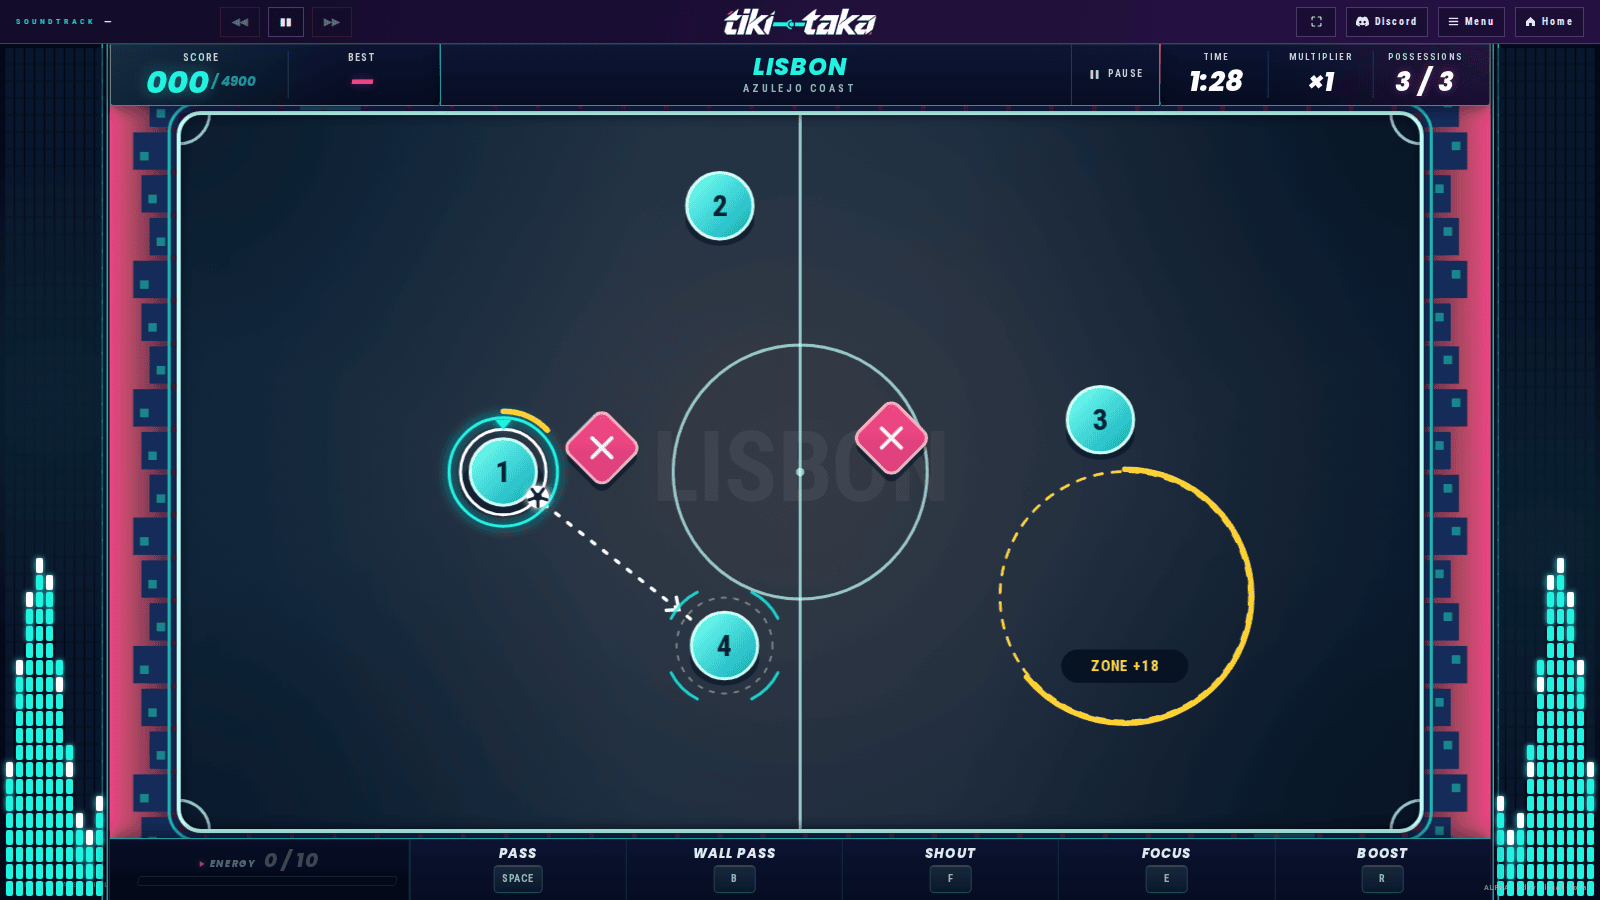
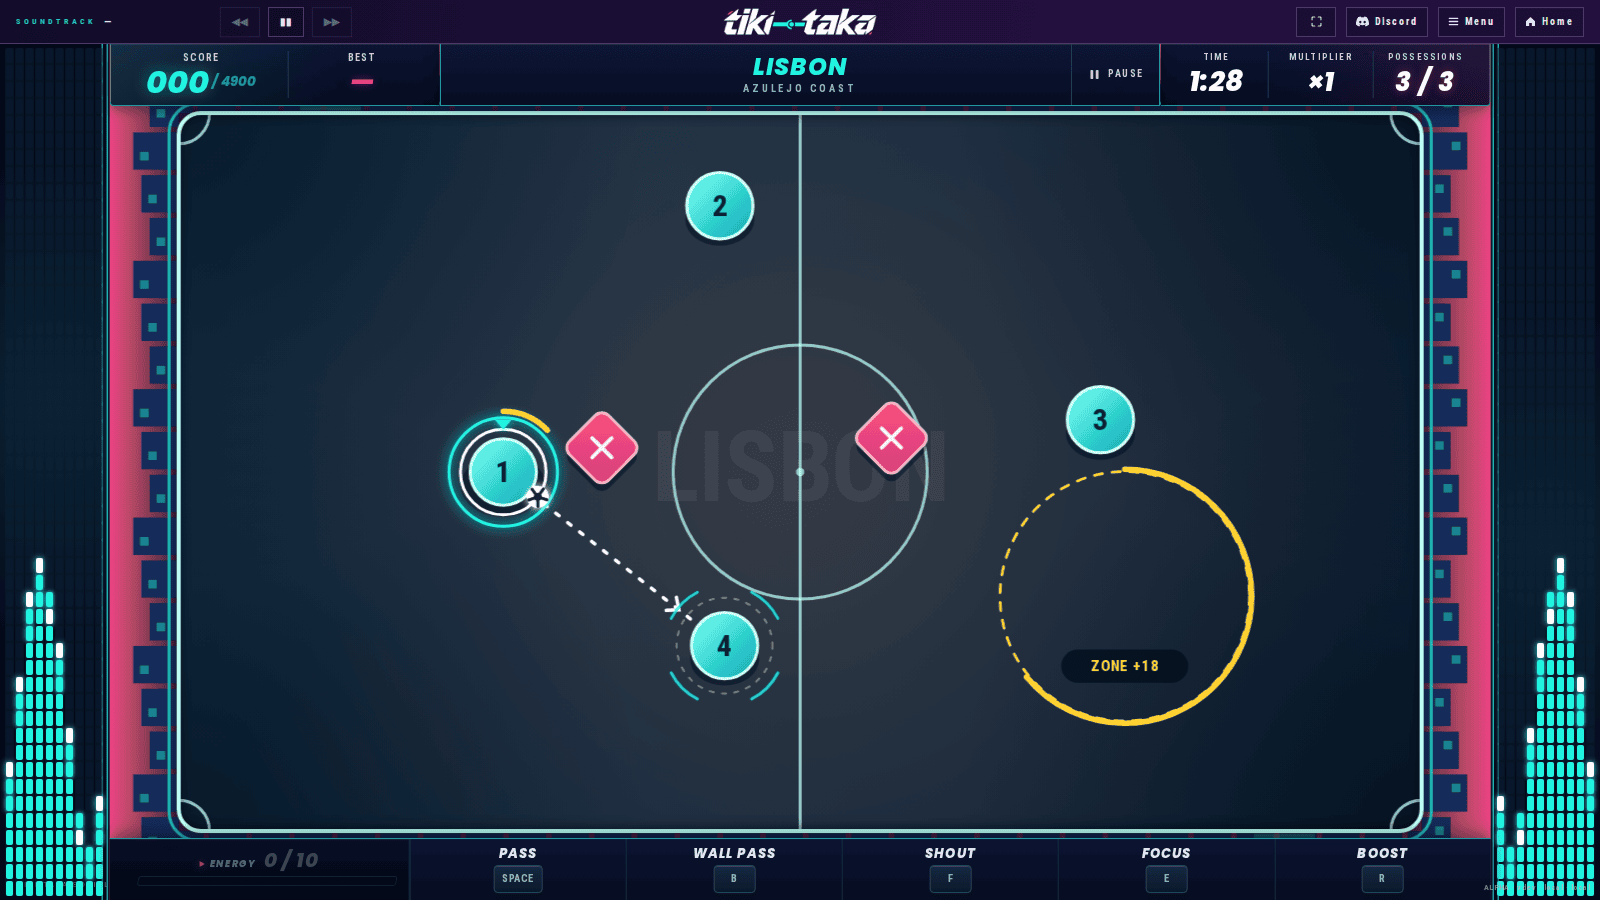
Docs follow-ups: gameplay guide corrections, landscape screenshot, retaken phone shots (#92)
* docs: fix Energy earners claim, add phone landscape screenshot

README incorrectly listed wall passes as earning Energy — they earn
points (18 × multiplier) but FOCUS_REWARDS.wall is 0, the same as
the engine comment confirms. Updated the sentence to match the code
and GAMEPLAY.md: triangles, bonus-zone receptions, press splits, and
Olé milestones earn Energy.

scripts/screenshots.mjs now captures a fourth image (phone landscape
844×390 @2x, isMobile/hasTouch) and the portrait context gains the
same flags for consistency. README "Ways to play" table extended to
show all three layouts: desktop, phone portrait, phone landscape.

* docs: fix GAMEPLAY.md errors and update supabase doc column list

docs/GAMEPLAY.md had four factual errors against the engine:

1. Endless was described as "starts at 60 seconds; triangles add five
   seconds, the press intensifies, and three turnovers end the run" — all
   wrong. Endless counts UP from zero, has no time bonuses, and ends on
   the first mistake (ENDLESS_COURT.possessions = 1). Rewrote to match
   ENDLESS_COURT.description and ENDLESS_DEFENDER_STEPS.

2. Free practice said "90 seconds" — wrong. Practice sets time: Infinity;
   there is no clock. Updated to "no time limit" and noted the press cap
   (Math.min(court.speed, 65), not the court's own 76+ base).

3. Star table used "1.5x the target" (★★) and "2.2x the target" (★★★) —
   wrong. Stars compare against STAR_RATIOS fractions of the court's
[…]

diff --git a/README.md b/README.md
@@ -28,15 +28,15 @@ Open the game at <http://localhost:5173>.
 
 Play in a desktop browser with keyboard, mouse, or a standard gamepad. The game is also playable on a phone in both orientations — the arena renders a rotated court in portrait. The production build precaches its app shell after the first online load and is installable where the browser supports it; service workers require localhost or HTTPS. The soundtrack is not part of that precache or the build itself: tracks are fetched from a runtime manifest alongside the served app and cached after first use, so new music can ship without a new release.
 
-| Desktop | Phone portrait |
-|---------|---------------|
-| ![Home screen](docs/screenshots/home.png) | ![Phone in-round](docs/screenshots/gameplay-phone-portrait.png) |
+| Desktop | Phone portrait | Phone landscape |
+|---------|---------------|-----------------|
+| ![Home screen](docs/screenshots/home.png) | ![Phone in-round portrait](docs/screenshots/gameplay-phone-portrait.png) | ![Phone in-round landscape](docs/screenshots/gameplay-phone-landscape.png) |
 
 ## Game overview
 
 Control the ball carrier while three teammates find supporting positions. Pass before the press closes in. An interception or tackle costs a possession and resets the formation; the number of possessions depends on the difficulty tier (five on Relaxed, three on Standard, one on Ruthless).
 
-Build a score multiplier by receiving in bonus zones and queue passes for one-touch combinations. Triangles, wall passes, and bonus-zone receptions earn Energy, the shared reserve behind Focus (slowing the court) and Boost. Home offers four modes:
+Build a score multiplier by receiving in bonus zones and queue passes for one-touch combinations. Triangles, bonus-zone receptions, press splits, and Olé milestones earn Energy, the shared reserve behind Focus (slowing the court) and Boost. Home offers four modes:
 
 - **World tour** — six fixed venues, three difficulty tiers, stars and progression.
 - **King of the Court** — four players, one ball, scored on squares taken rather than flow. Not yet playable; shown on Home as coming soon.

diff --git a/docs/GAMEPLAY.md b/docs/GAMEPLAY.md
@@ -38,14 +38,14 @@ World Tour has six courts from Lisbon to Amsterdam. Meet the target and survive 
 
 | Stars | Requirement after surviving the round |
 | --- | --- |
-| ★ | Reach the target |
-| ★★ | Reach 1.5x the target |
-| ★★★ | Reach 2.2x the target with no turnovers |
+| ★ | Reach the clear target |
+| ★★ | Reach 75% of the court's reference score (scaled to your difficulty tier) |
+| ★★★ | Reach 100% of the reference score with no turnovers |
 
-Difficulty rises from two to four defenders, base defender speed from 76 to 123 court units per second, targets from 600 to 2,400, and 90 seconds to complete each court.
+Difficulty rises from two to four defenders, base defender speed from 76 to 123 court units per second, and 90 seconds to complete each court. Targets depend on the chosen difficulty tier; on Standard they range from 4,900 (The Courtyard) to 7,000 (Total Football).
 
-- **Free practice:** gentler press, unlimited recoveries, 90 seconds.
-- **Endless:** starts at 60 seconds; triangles add five seconds, the press intensifies, and three turnovers end the run.
+- **Free practice:** press capped at 65 units per second, unlimited recoveries, no time limit.
+- **Endless:** counts up from zero on Still Water. One possession — the first mistake ends the run. A third defender joins at 0:45, a fourth at 1:45, a fifth at 3:15, and the press keeps quickening after that with no ceiling.
 Finished rounds grant XP on a 50-level curve that widens as it climbs; Free practice grants none.
 
 | Tactic | Strength | Tradeoff |

diff --git a/docs/supabase-browser-config.md b/docs/supabase-browser-config.md
@@ -59,8 +59,9 @@ from both base tables, which is the stronger position.
 
 The trade the advisor is naming is real: a definer view runs as its owner and
 bypasses RLS, so **anything added to this view's definition is exposed with
-those privileges**. Keep it to the seven columns it publishes — `username`,
-`mode`, `court`, `score`, `passes`, `best_one_touch`, `created_at`. It must
+those privileges**. Keep it to the columns it publishes — `username`,
+`mode`, `court`, `score`, `passes`, `best_one_touch`, `triangles`, `oles`,
+`splits`, `zones`, `difficulty`, `created_at`. It must
 never select `user_id`, anything from `auth.users`, or another table.
 
 If that constraint ever becomes awkward, replace the view with a
